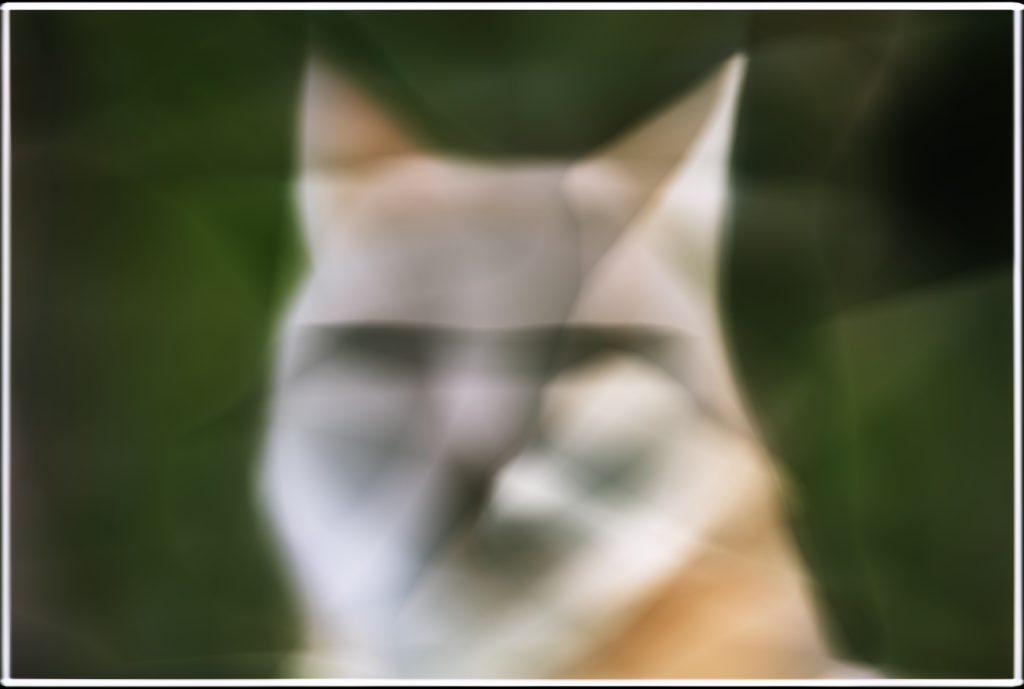
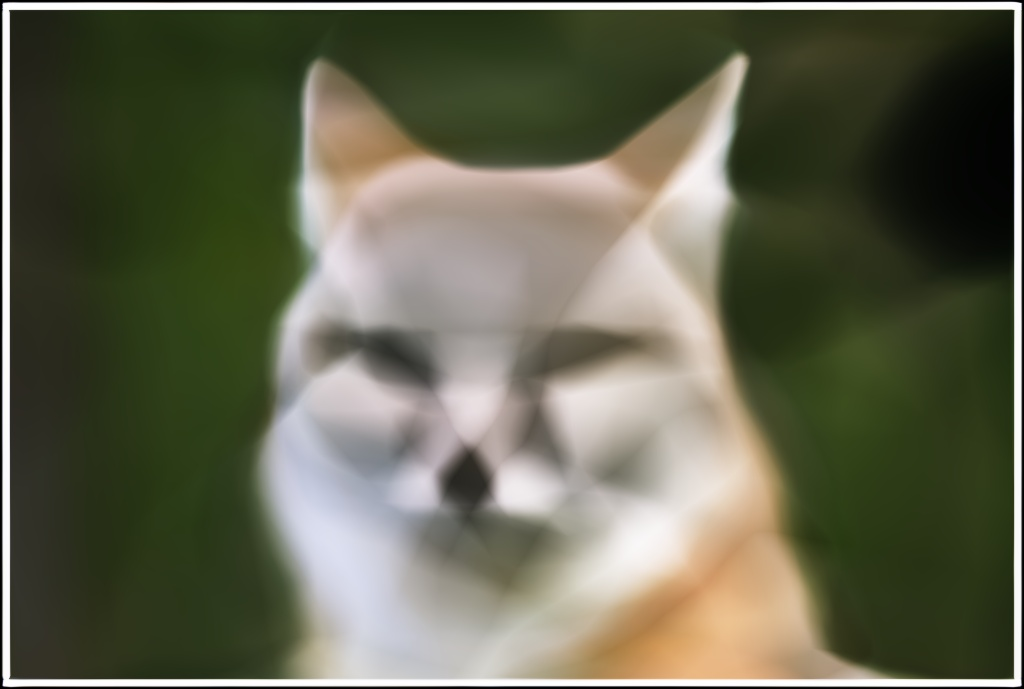
update part1

diff --git a/proj4/index.html b/proj4/index.html
@@ -55,6 +55,8 @@ mlp = nn.Sequential(
     nn.ReLU(),
     nn.Linear(256, 256),
     nn.ReLU(),
+    nn.Linear(256, 256),
+    nn.ReLU(),
     nn.Linear(256, 3),
     nn.Sigmoid()
 )
@@ -63,71 +65,77 @@ num_epochs = 3000
 batch_size = 10000
 optimizer = torch.optim.Adam(mlp.parameters(), lr=1e-2)
 criterion = torch.nn.MSELoss()
+L = 20
                 </code></pre>
             </div>
             <div class="grid_3">
                 <figure>
-                    <img src="./part1/fox_1.png" alt="selfie" class="q1_image">
+                    <img src="./part1/fox/fox_mlp_0.jpg" alt="selfie" class="q1_image">
                     <figcaption>iter = 0</figcaption>
                 </figure>
                 <figure>
-                    <img src="./part1/fox_2.png" alt="selfie" class="q1_image">
+                    <img src="./part1/fox/fox_mlp_1.jpg" alt="selfie" class="q1_image">
                     <figcaption>iter = 50</figcaption>
                 </figure>
                 <figure>
-                    <img src="./part1/fox_3.png" alt="selfie" class="q1_image">
+                    <img src="./part1/fox/fox_mlp_2.jpg" alt="selfie" class="q1_image">
                     <figcaption>iter = 100</figcaption>
                 </figure>
                 <figure>
-                    <img src="./part1/fox_4.png" alt="selfie" class="q1_image">
+                    <img src="./part1/fox/fox_mlp_3.jpg" alt="selfie" class="q1_image">
                     <figcaption>iter = 500</figcaption>
                 </figure>
                 <figure>
-                    <img src="./part1/fox_5.png" alt="selfie" class="q1_image">
+                    <img src="./part1/fox/fox_mlp_4.jpg" alt="selfie" class="q1_image">
                     <figcaption>iter = 1000</figcaption>
                 </figure>
                 <figure>
-                    <img src="./part1/fox_6.png" alt="selfie" class="q1_image">
+                    <img src="./part1/fox/fox_mlp_5.jpg" alt="selfie" class="q1_image">
                     <figcaption>iter = 2000</figcaption>
                 </figure>
                 <figure>
-                    <img src="./part1/fox_7.png" alt="selfie" class="q1_image">
+                    <img src="./part1/fox/fox_mlp_6.jpg" alt="selfie" class="q1_image">
                     <figcaption>iter = 2999</figcaption>
                 </figure>
             </div>
             <div class="grid_2">
                 <figure>
-                    <img src="./part1/fox_PSNR.png" alt="selfie" class="q1_image">
+                    <img src="./part1/fox/fox_PSNRs.png" alt="selfie" class="q1_image">
                 </figure>
             </div>
             <div class="grid_3">
                 <figure>
-                    <img src="./part1/pet/pet1.png" alt="selfie" class="q1_image">
+                    <img src="./part1/dog/pet_mlp_0.jpg" alt="selfie" class="q1_image">
                     <figcaption>iter = 0</figcaption>
                 </figure>
                 <figure>
-                    <img src="./part1/pet/pet2.png" alt="selfie" class="q1_image">
+                    <img src="./part1/dog/pet_mlp_1.jpg" alt="selfie" class="q1_image">
                     <figcaption>iter = 50</figcaption>
                 </figure>
                 <figure>
-                    <img src="./part1/pet/pet3.png" alt="selfie" class="q1_image">
+                    <img src="./part1/dog/pet_mlp_2.jpg" alt="selfie" class="q1_image">
                     <figcaption>iter = 100</figcaption>
                 </figure>
                 <figure>
-                    <img src="./part1/pet/pet4.png" alt="selfie" class="q1_image">
+                    <img src="./part1/dog/pet_mlp_3.jpg" alt="selfie" class="q1_image">
                     <figcaption>iter = 500</figcaption>
                 </figure>
                 <figure>
-                    <img src="./part1/pet/pet5.png" alt="selfie" class="q1_image">
+                    <img src="./part1/dog/pet_mlp_4.jpg" alt="selfie" class="q1_image">
                     <figcaption>iter = 1000</figcaption>
                 </figure>
                 <figure>
-                    <img src="./part1/pet/pet6.png" alt="selfie" class="q1_image">
+                    <img src="./part1/dog/pet_mlp_5.jpg" alt="selfie" class="q1_image">
                     <figcaption>iter = 2000</figcaption>
                 </figure>
                 <figure>
-                    <img src="./part1/pet/pet7.png" alt="selfie" class="q1_image">
+                    <img src="./part1/dog/pet_mlp_6.jpg" alt="selfie" class="q1_image">
                     <figcaption>iter = 2999</figcaption>
+                </figure>
+            </div>
+            <div class="grid_2">
+                <figure>
+                    <img src="./part1/dog/dog_PSNRs.png" alt="selfie" class="q1_image">
                 </figure>
             </div>
             <div class="description">
@@ -148,15 +156,17 @@ criterion = torch.nn.MSELoss()
                     <figcaption>PE layers=20, width=(2,2)</figcaption>
                 </figure>
                 <figure>
-                    <img src="./part1/grid/fox_6.png" alt="selfie" class="q1_image">
+                    <img src="./part1/grid/fox_mlp_5.jpg" alt="selfie" class="q1_image">
                     <figcaption>PE layers=20, width=(256,256)</figcaption>
                 </figure>
             </div>
             <div class="description">
-                <p>Comparing the four different outputs, we can see the width of MLP determine if MLP can actually learn enough information about general shape of the image
-                    Then max positional encoding layers.
-                    If width of the channel low like (2,2), the model can't learn the image at all.
+                <p>Comparing the four different outputs, we can see the width of MLP determine if MLP can actually learn enough information about general color in each area.
+                    Then max positional encoding layers determine how many different frequence the model can learn.
+                    If width of the channel low like (2,2), the model can't learn actaul color distribution which cause it only depict general fox area with uniform color.
+                    High L and low channle width, just let model learn some sharp edge of the fox.
                     If L max position encoding layer is low, model can't extract that many details from the image.
+                    That's why L =2 with big channel width produce image with big color chunks no detail texture.
                 </p>
             </div>
         </div>
